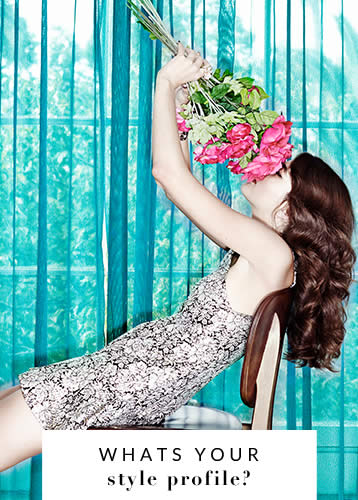
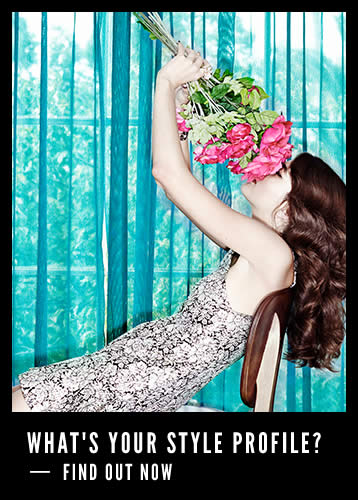
updated homepage graphics and fashionista route

Changed region(s): [[0.0, 0.0, 1.0, 1.0]]

diff --git a/app/assets/stylesheets/partials/_header.css.scss b/app/assets/stylesheets/partials/_header.css.scss
@@ -175,6 +175,7 @@
 		.fleft {
 			width: $navWhyUs;
 		}
+		
 		nav {
 			display: inline-block;
 			border:solid 2px #000;
@@ -222,6 +223,9 @@
 					font-size: 47px;
 				}
 			}
+		}
+		.ie nav{
+			height: 62px;
 		}
 		.region {
 			float: left;

diff --git a/config/routes.rb b/config/routes.rb
@@ -152,8 +152,8 @@ FameAndPartners::Application.routes.draw do
     get '/legal'   => 'statics#legal'
     get '/faqs'   => 'statics#faqs'
     get '/how-it-works'   => 'statics#how_it_works', :as => :how_it_works
-    get '/fashionista2014'   => 'statics#fashionistacomp'
-    get '/fashionista2014/info'   => 'statics#fashionista', :as => :fashionista
+    get '/fashionista2014'   => 'statics#fashionistacomp', :as => :fashionista
+    get '/fashionista2014/info'   => 'statics#fashionista', :as => :fashionista_info
     get '/compterms' => 'statics#comp_terms'
 
     get '/campaigns/stylecall' => 'campaigns#show'
